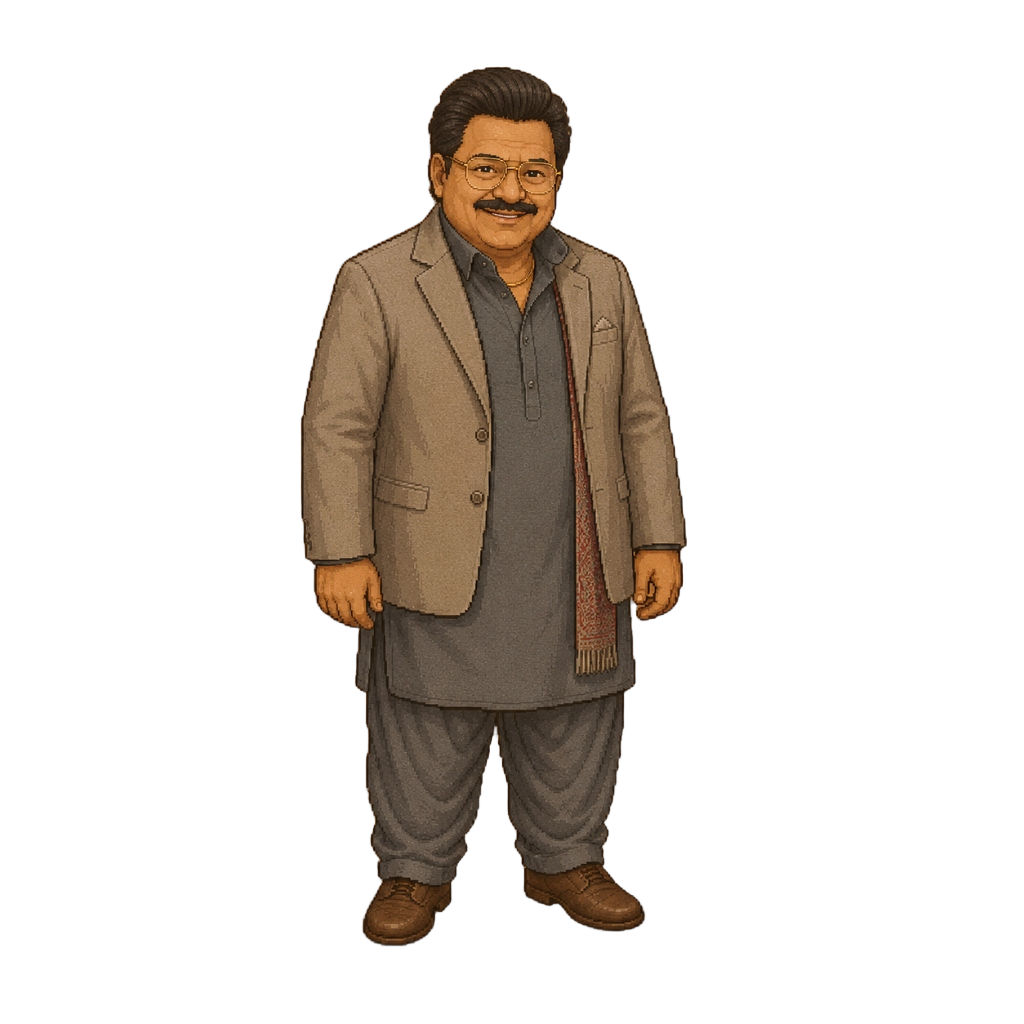
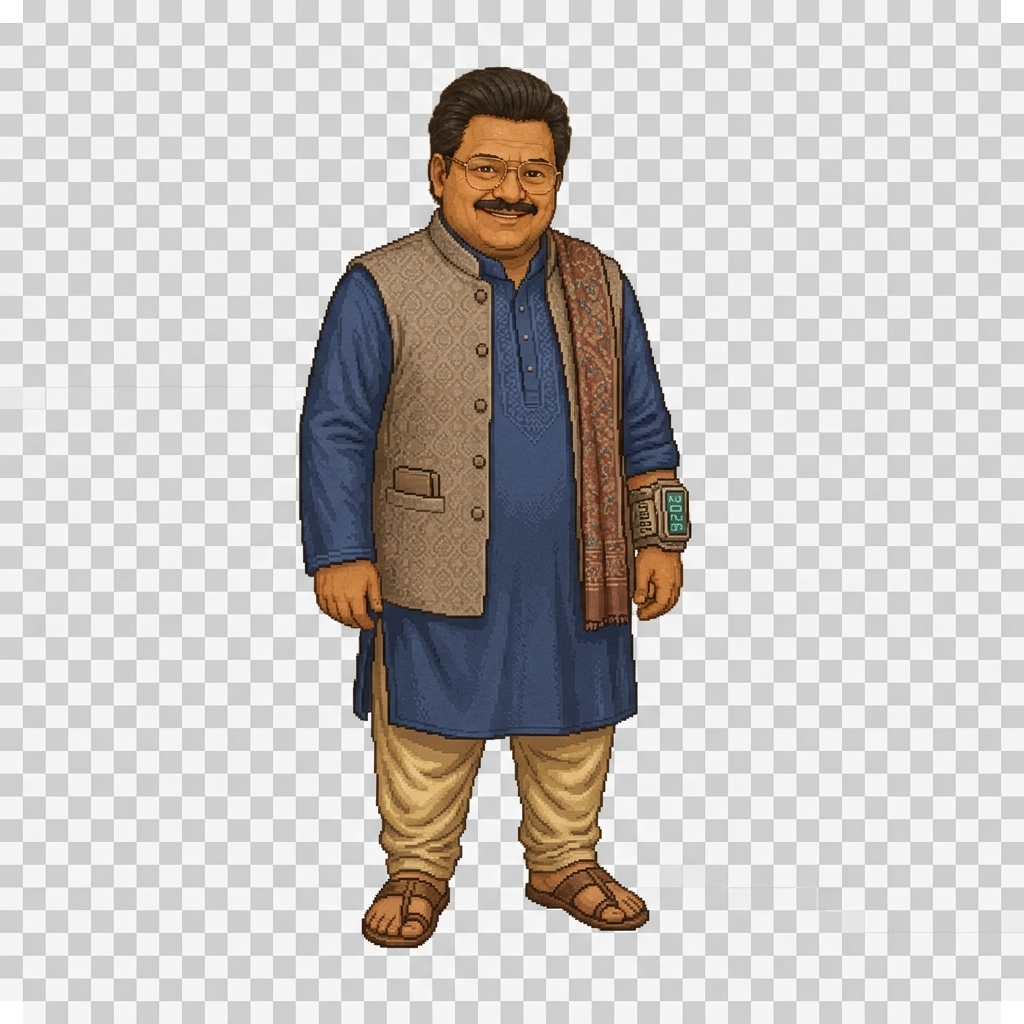
dialouge update

diff --git a/frontend/app/play/vijayanagara/page.tsx b/frontend/app/play/vijayanagara/page.tsx
@@ -324,7 +324,7 @@ export default function VijayanagaraGameScreen() {
     if (!isLoading && scene === "anegundi_river_crossing" && !hasPlayedIntroNarrationRef.current) {
       hasPlayedIntroNarrationRef.current = true;
       const introText =
-        "The year is 1336 AD. Vijayanagara begins here at Anegundi beside the Tungabhadra River. Cross the river and speak with Sage Vidyaranya.";
+        "The year is 1336 AD. On the banks of the Tungabhadra river stands Anegundi — the seat of a new empire, Vijayanagara, ruled by two brothers, Harihara I and Bukka Raya I.\n\nYou are a historian from the year 2026. A time machine has brought you here — but no one in this era can ever know that truth. Reveal it, and the consequences will be far worse than disbelief.";
       const timer = setTimeout(() => {
         setShowOpeningAtmosphere(false);
         void playNarration(introText, { speaker: "ratan", pace: 0.88, language_code: "en-IN" });
@@ -1066,7 +1066,7 @@ export default function VijayanagaraGameScreen() {
             }
           }
         } else if (isNearUncle) {
-          setUncleSpeechText("Greetings, traveler. I am also a historian, seeking to understand the tragic fall of such a magnificent empire.");
+          setUncleSpeechText("Hello Im raju , a time traveller from 2026 come here seeking to understand the tragic fall of such a magnificant empire");
           setUncleOptions([
             { id: 1, text: "Let us seek the truth together." }
           ]);
@@ -2703,7 +2703,7 @@ export default function VijayanagaraGameScreen() {
                 }}
                 onClick={(e) => {
                   e.stopPropagation();
-                  setUncleSpeechText("Greetings, traveler. I am also a historian, seeking to understand the tragic fall of such a magnificent empire.");
+                  setUncleSpeechText("Hello Im raju , a time traveller from 2026 come here seeking to understand the tragic fall of such a magnificant empire");
                   setUncleOptions([
                     { id: 1, text: "Let us seek the truth together." }
                   ]);
@@ -3676,7 +3676,7 @@ export default function VijayanagaraGameScreen() {
           <DialoguePanel
             sceneId="anegundi_river_crossing"
             currentSceneId={scene}
-            characterName="Historian"
+            characterName="Raju"
             characterTitle="Your Loyal Friend"
             characterId="uncle"
             dialogueText={uncleSpeechText || "Greetings! I am the local historian."}

diff --git a/frontend/remove_bg_raju.py b/frontend/remove_bg_raju.py
@@ -1,0 +1,32 @@
+import cv2
+import numpy as np
+
+# Read the image
+image = cv2.imread(r'C:\Users\ami05\.gemini\antigravity-ide\brain\6cc172be-6b2a-4513-8ba8-99b349c01561\raju_companion_1790536820354.jpg', cv2.IMREAD_UNCHANGED)
+
+# The generated image has a fake transparency checkerboard pattern.
+# We will create a mask for the checkerboard.
+# Checkerboard colors are usually exact hex values, but they can be slightly off due to compression.
+# Let's use floodfill from the top left corner.
+h, w = image.shape[:2]
+mask = np.zeros((h+2, w+2), np.uint8)
+
+# Convert to RGB (OpenCV uses BGR) for easier color checking if needed
+# but floodFill works on BGR directly.
+# Flood fill from the corners
+cv2.floodFill(image, mask, (0, 0), (255, 255, 255), (10, 10, 10), (10, 10, 10), cv2.FLOODFILL_MASK_ONLY)
+cv2.floodFill(image, mask, (w-1, 0), (255, 255, 255), (10, 10, 10), (10, 10, 10), cv2.FLOODFILL_MASK_ONLY)
+cv2.floodFill(image, mask, (0, h-1), (255, 255, 255), (10, 10, 10), (10, 10, 10), cv2.FLOODFILL_MASK_ONLY)
+cv2.floodFill(image, mask, (w-1, h-1), (255, 255, 255), (10, 10, 10), (10, 10, 10), cv2.FLOODFILL_MASK_ONLY)
+
+# The mask now contains 1 where the background is.
+# We want 0 for background and 255 for foreground.
+alpha = 255 - (mask[1:h+1, 1:w+1] * 255)
+
+# Add alpha channel
+b, g, r = cv2.split(image)
+rgba = [b, g, r, alpha]
+final_image = cv2.merge(rgba)
+
+cv2.imwrite(r'c:\Users\ami05\OneDrive\Desktop\BHARAT_GATHA\frontend\public\uncle_companion.png', final_image)
+print("Background removed and saved successfully.")

diff --git a/frontend/remove_bg_rembg.py b/frontend/remove_bg_rembg.py
@@ -1,0 +1,11 @@
+from rembg import remove
+from PIL import Image
+
+input_path = r'C:\Users\ami05\.gemini\antigravity-ide\brain\6cc172be-6b2a-4513-8ba8-99b349c01561\raju_companion_1790536820354.jpg'
+output_path = r'c:\Users\ami05\OneDrive\Desktop\BHARAT_GATHA\frontend\public\uncle_companion.png'
+
+print("Processing image with rembg...")
+input_image = Image.open(input_path)
+output_image = remove(input_image)
+output_image.save(output_path)
+print("Saved clean transparent image to:", output_path)
